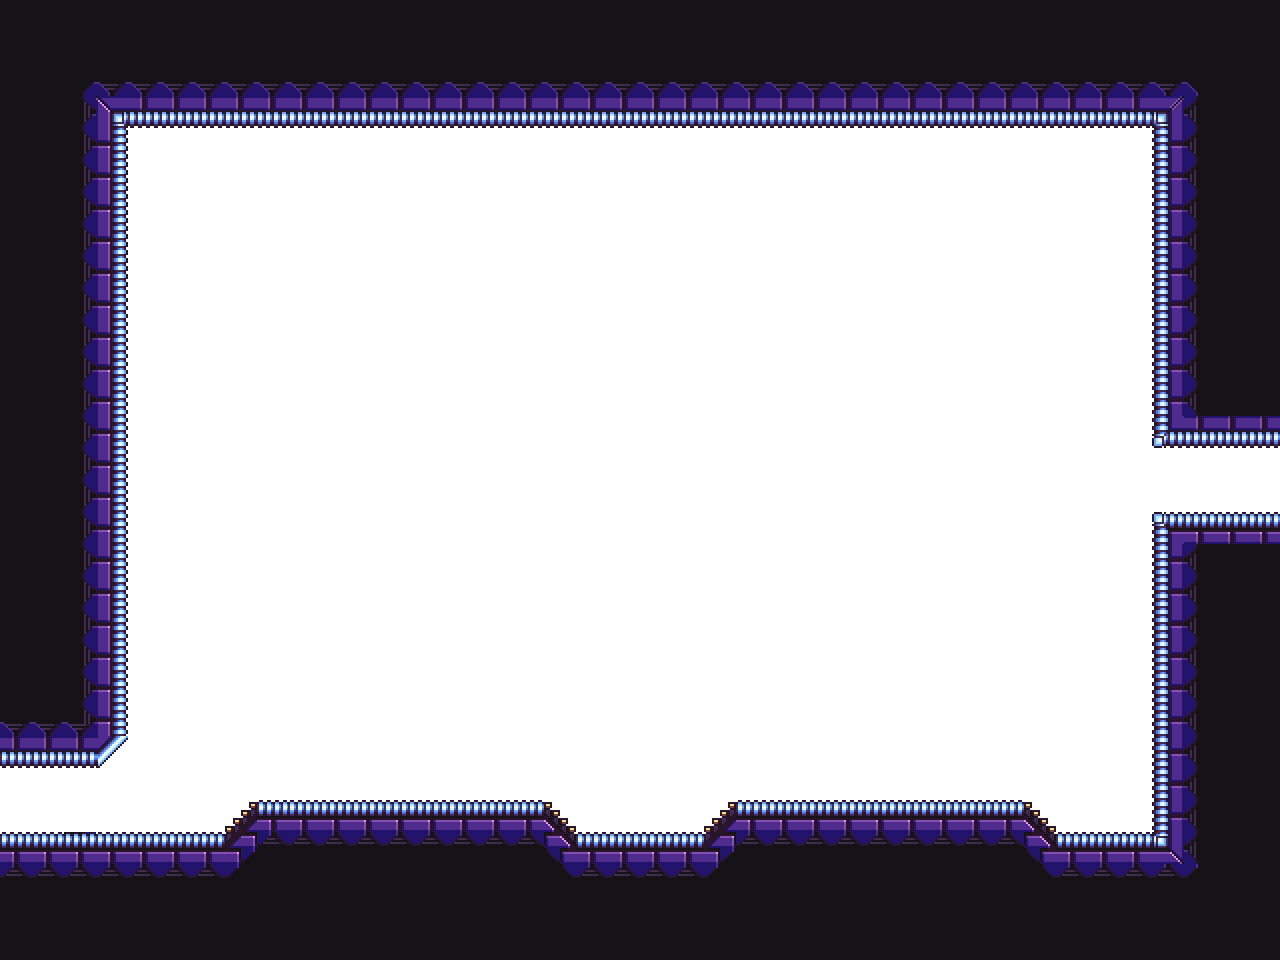
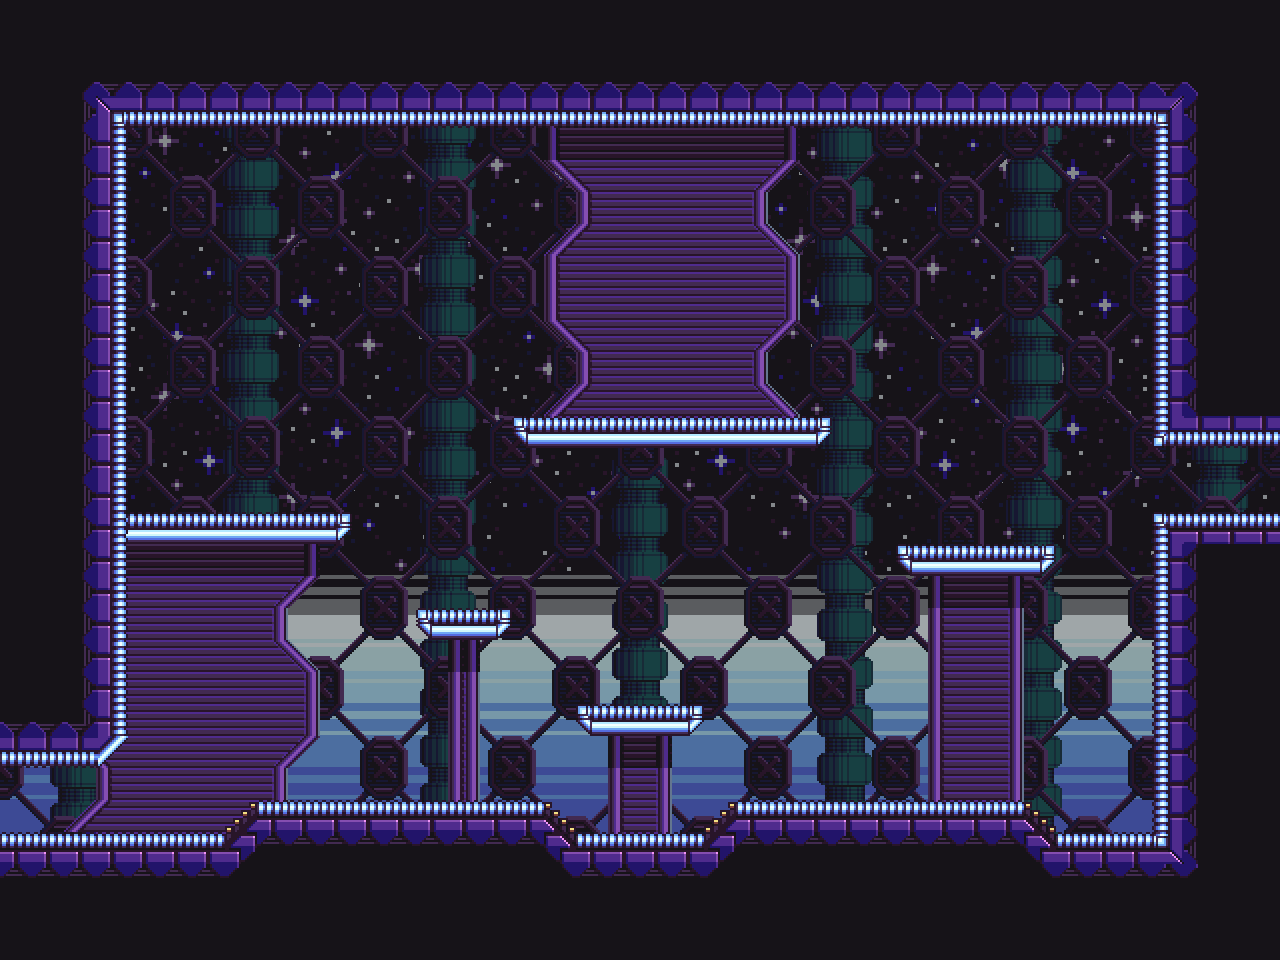
a

diff --git a/JS/Room_1.js b/JS/Room_1.js
@@ -6,16 +6,62 @@ class Room_1 extends Phaser.Scene {
 	preload(){
 		this.load.image("background",("../resources/levels/level_1/room_1/background.png"));
 		this.load.image("terrain",("../resources/levels/level_1/room_1/room_1.png"));
-		this.load.image("character",("../resources/MainCharacter.png"));
+
+
+
+		//this.load.spritesheet()
+		this.load.spritesheet("character","../resources/MainCharacter.png",{
+			frameWidth:23, 
+			frameHeight:70
+		});
 	}
+
 	create(){
 		this.background = this.add.image(0,0,"background");
 		this.background.setOrigin(0,0);
 
-		this.terrain = this.add.image(0,0,"terrain");
-		this.terrain.setOrigin(0,0);
+		this.anims.create({
+			key: "character_walk",
+			frames: this.anims.generateFrameNumbers("character"),
+			frameRate: 4,
+			repeat: -1
+		});
 
-		this.character = this.add.image(0,765,"character");
+		this.terrain = this.physics.add.sprite(0,0,"terrain");
+		this.terrain.setOrigin(0,0);
+		var character = this.character = this.physics.add.sprite(200,200,"character");
 		this.character.setOrigin(0,0);
+		this.character.play("character_walk");
+		this.cursorKeys = this.input.keyboard.createCursorKeys();
+		this.character.setCollideWorldBounds(true);
+		character.body.setSize(character.width,character.height,true);
+		this.physics.add.collider(this.terrain, this.character, function(terrain,character){
+			console.log("colisao efetuada");
+		});
+
+
+
+
+
+		this.a = this.input.keyboard.addKey(Phaser.Input.Keyboard.KeyCodes.A);
+		this.d = this.input.keyboard.addKey(Phaser.Input.Keyboard.KeyCodes.D);
+		character.setVelocity(0,160);
 	}
+
+	movePlayerManager(){
+		if(this.a.isDown){
+			if(Phaser.Input.Keyboard.JustDown(this.a)){this.character.flipX = true}
+			this.character.setVelocityX(-gameSettings.playerSpeed);
+		}else if(this.d.isDown){
+			if(Phaser.Input.Keyboard.JustDown(this.d)){this.character.flipX = false}
+			this.character.setVelocityX(gameSettings.playerSpeed);
+		}else this.character.setVelocityX(0);
+
+	}
+
+
+	update(){
+		this.movePlayerManager();
+	}
+
 }

diff --git a/JS/Level1.js b/JS/Level1.js
@@ -1,8 +1,20 @@
+var gameSettings = {
+	playerSpeed: 200,
+}
+
+
+
 var config ={
 	width:1280,
 	height:960,
-	backgroundColor: 0x000000,
-	scene: [Room_1]
+	scene: [Room_1],
+	pixelArt: true,
+	physics: {
+		default: "arcade",
+		arcade: {
+			debug: false
+		}
+	}
 }
 
 var game= new Phaser.Game(config);

diff --git a/resources/levels/level_1/room_1/room_1_layout.tsx b/resources/levels/level_1/room_1/room_1_layout.tsx
@@ -1,0 +1,4 @@
+<?xml version="1.0" encoding="UTF-8"?>
+<tileset version="1.2" tiledversion="1.3.4" name="room_1_layout" tilewidth="32" tileheight="32" tilecount="1200" columns="40">
+ <image source="room_1_layout.png" width="1280" height="960"/>
+</tileset>
